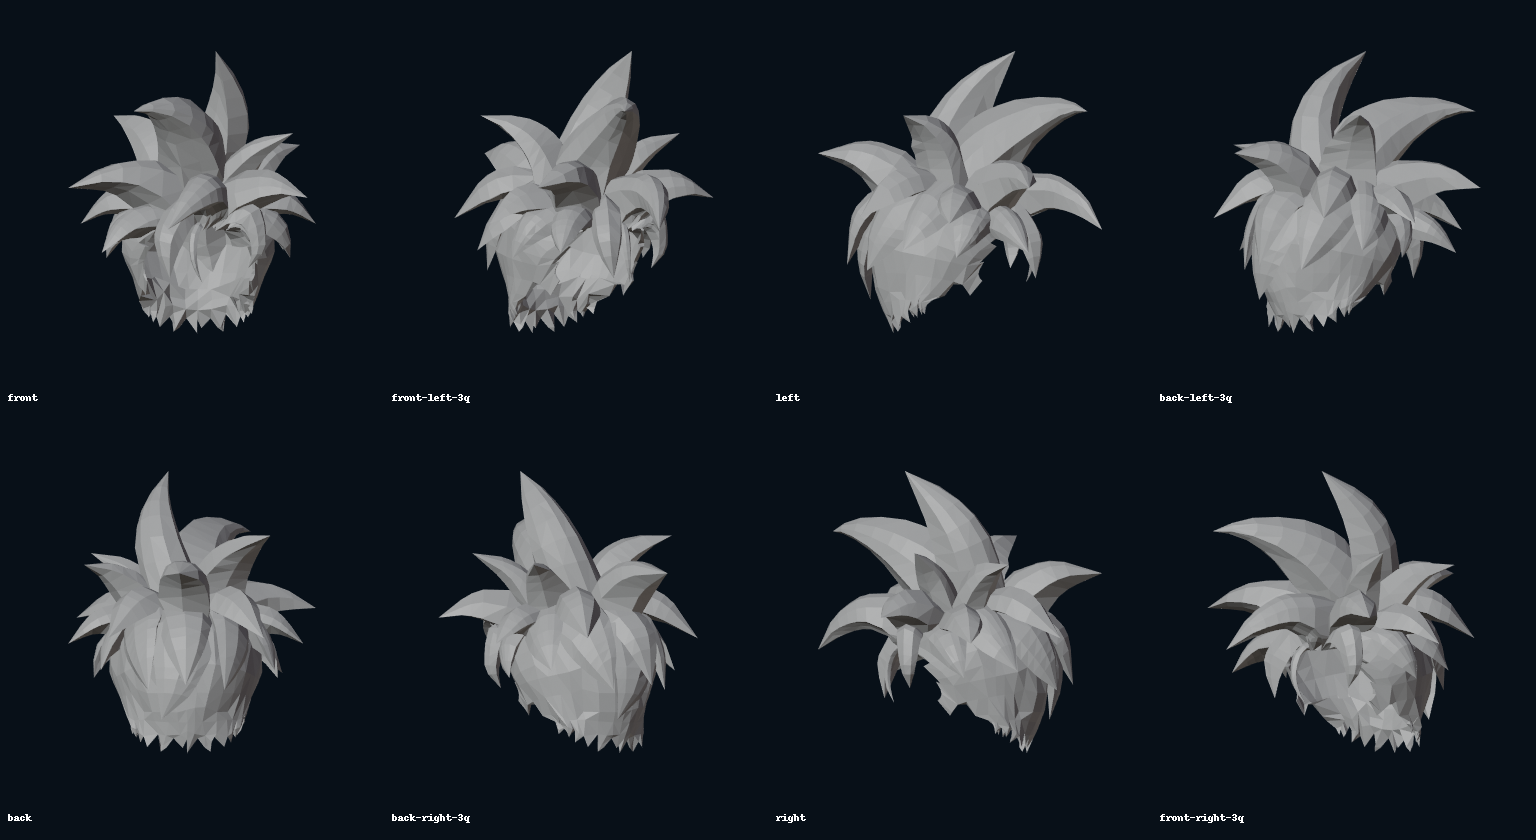
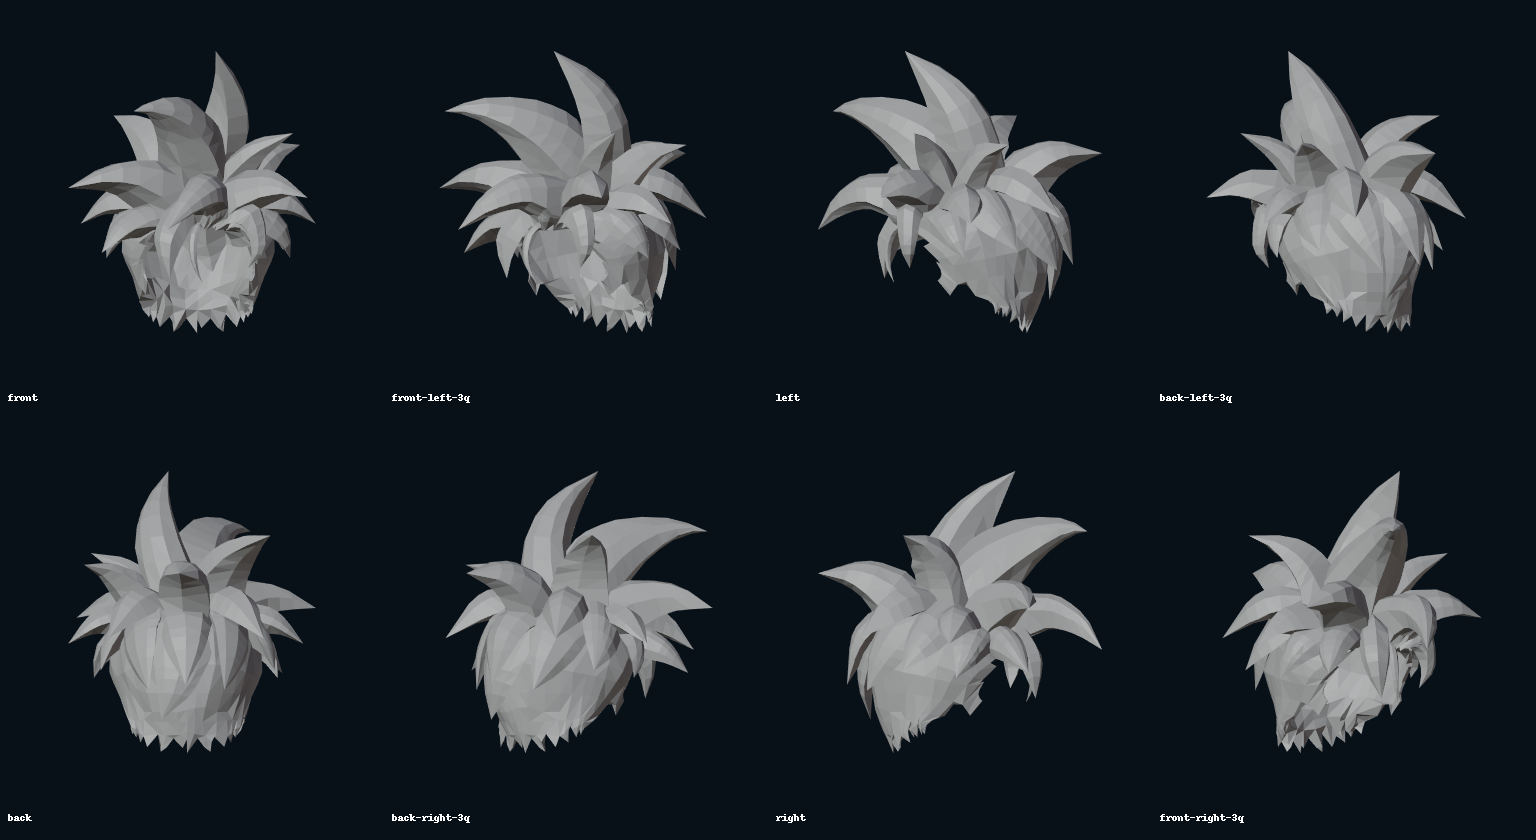
fix: normalize presentation direction semantics

diff --git a/docs/visual-review/stage-03d-2a-external-hair-ingestion/tools/render-eight-directions.py b/docs/visual-review/stage-03d-2a-external-hair-ingestion/tools/render-eight-directions.py
@@ -9,5 +9,5 @@ cd=bpy.data.cameras.new('MC_CANONICAL_ORTHO');cam=bpy.data.objects.new('MC_CANON
 D=[('front',0),('front-left-3q',45),('left',90),('back-left-3q',135),('back',180),('back-right-3q',225),('right',270),('front-right-3q',315)]
 for name,yaw in D:
  a=math.radians(yaw);cam.location=target+Vector((-math.sin(a)*3,-math.cos(a)*3,0));cam.rotation_euler=(target-cam.location).to_track_quat('-Z','Y').to_euler();sc=bpy.context.scene;sc.render.engine='BLENDER_WORKBENCH';sc.render.resolution_x=384;sc.render.resolution_y=384;sc.render.resolution_percentage=100;sc.render.film_transparent=True;sc.display.shading.light='STUDIO';sc.display.shading.color_type='MATERIAL';sc.render.filepath=str(out/f'luceus-{name}.png');bpy.ops.render.render(write_still=True)
-manifest={'specimen_id':'tryzick-hum015-luceus','source_blend':str(src),'source_sha256':hashlib.sha256(src.read_bytes()).hexdigest(),'resolution':[384,384],'projection':'orthographic','canonical_head_origin':[target.x,target.y,target.z],'orthographic_scale':scale,'camera_elevation':0,'directions':[{'id':n,'yaw_degrees':y,'output':str(out/f'luceus-{n}.png')} for n,y in D],'geometry':{'object':'HAIR_Top','vertices':2610,'polygons':2558},'production_mode':'COMPLETE','provenance':'fan_resource_permitted'}
+manifest={'specimen_id':'tryzick-hum015-luceus','source_blend':str(src),'source_sha256':hashlib.sha256(src.read_bytes()).hexdigest(),'resolution':[384,384],'projection':'orthographic','canonical_head_origin':[target.x,target.y,target.z],'orthographic_scale':scale,'camera_elevation':0,'directions':[{'presentation_direction':n,'camera_side':c,'yaw_degrees':y,'output':str(out/f'luceus-{n}.png')} for n,y,c in D],
 json.dump(manifest,open(out/'luceus-eight-direction-manifest.json','w'),indent=2)

diff --git a/docs/visual-review/stage-03d-2a-external-hair-ingestion/LUCEUS-EIGHT-DIRECTION-REPORT.md b/docs/visual-review/stage-03d-2a-external-hair-ingestion/LUCEUS-EIGHT-DIRECTION-REPORT.md
@@ -11,3 +11,8 @@ Outputs and manifest are under `external-specimens/derived-reference/luceus-eigh
 Verdicts: `COMPLETE_HAIR_PRODUCTION_PATH=GREEN`; `EIGHT_DIRECTION_CAMERA_RIG=GREEN`; `DIRECTION_CONTRACT=GREEN`; `DIRECTIONAL_SCALE_CONSISTENCY=GREEN`; `ASYMMETRY_PRESERVATION=GREEN`; `DIRECTION_MANIFEST=GREEN`; `REUSABLE_DIRECTIONAL_RENDER_SEAM=GREEN`; `READY_FOR_PIXEL_CONVERSION_SPIKE=YES`.
 
 The set is source-reference material only. Pixelization, sprite-sheet generation, gameplay integration, and further modularity work remain out of scope.
+
+## R1 presentation semantics correction
+
+The physical camera views and pixels are unchanged. Presentation IDs now describe the direction the character visually faces, independently of camera side/anatomical side. The manifest records both fields. The corrected mapping is: yaw 0 front→front; 45 front-left camera→front-right-3q presentation; 90 left camera→right presentation; 135 back-left camera→back-right-3q presentation; 180 back→back; 225 back-right camera→back-left-3q presentation; 270 right camera→left presentation; 315 front-right camera→front-left-3q presentation. No image was mirrored.
+
